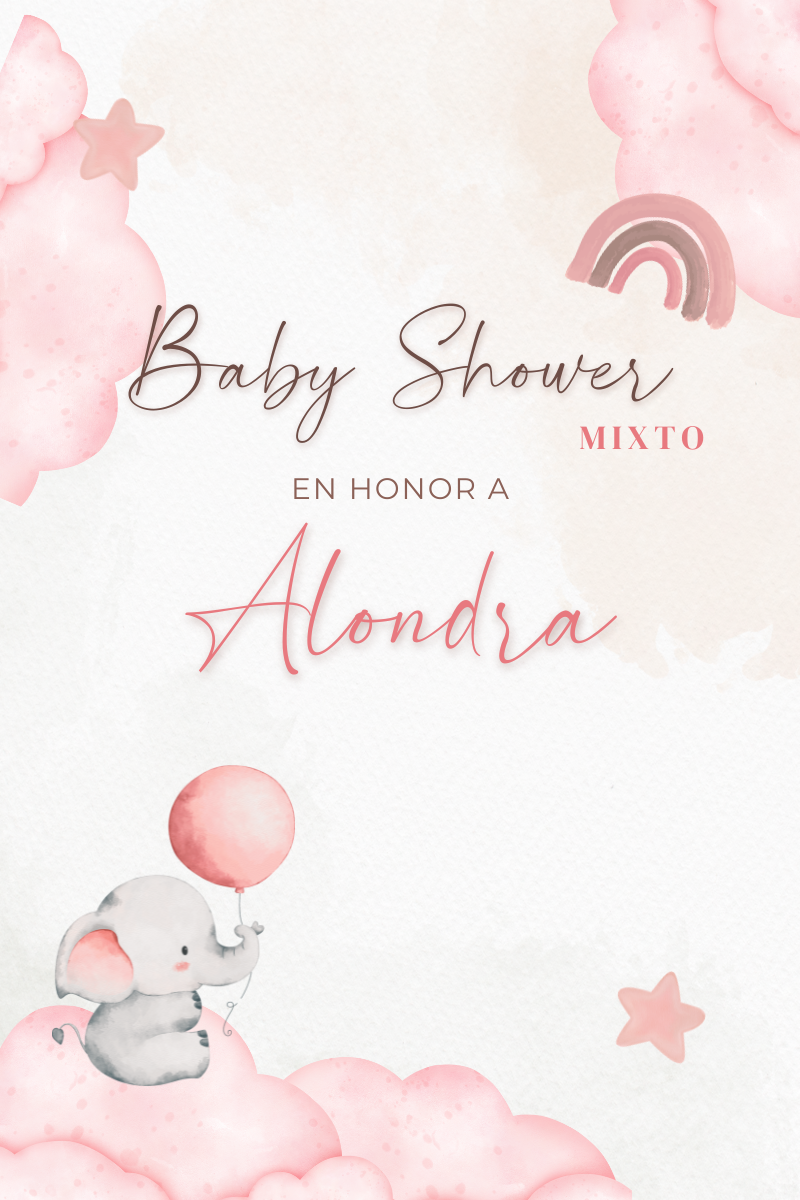
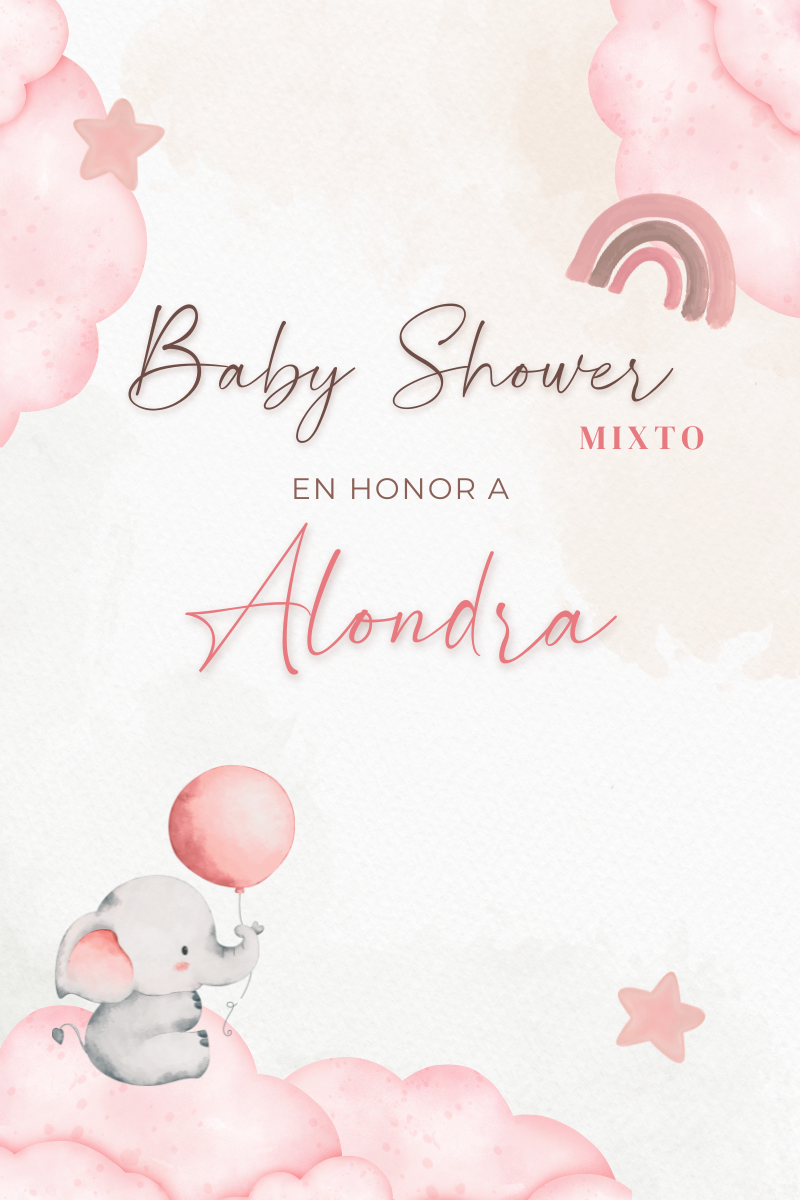
changes

Changed region(s): [[0.0, 0.1542, 0.2188, 0.4317], [0.0, 0.0, 0.125, 0.1542], [0.0, 0.1542, 0.0312, 0.185]]

diff --git a/css/style.css b/css/style.css
@@ -388,9 +388,9 @@ h1, h2, h3, h4, h5, h6 {
 .video-hero {
   background-size: cover;
   background-repeat: no-repeat;
-  background-image: url(./../images/2.png);
+  background-image: url(./../images/hor.png);
 }
-@media screen and (max-width: 768px) {
+@media screen and (max-width: 600px) {
   .qbootstrap-cover,
   .video-hero {
     /* padding: 3em 0; */
@@ -410,7 +410,7 @@ h1, h2, h3, h4, h5, h6 {
   z-index: 2;
   
 }
-@media screen and (max-width: 768px) {
+@media screen and (max-width: 600px) {
   .qbootstrap-cover .display-t,
   .video-hero .display-t {
     height: 400px;
